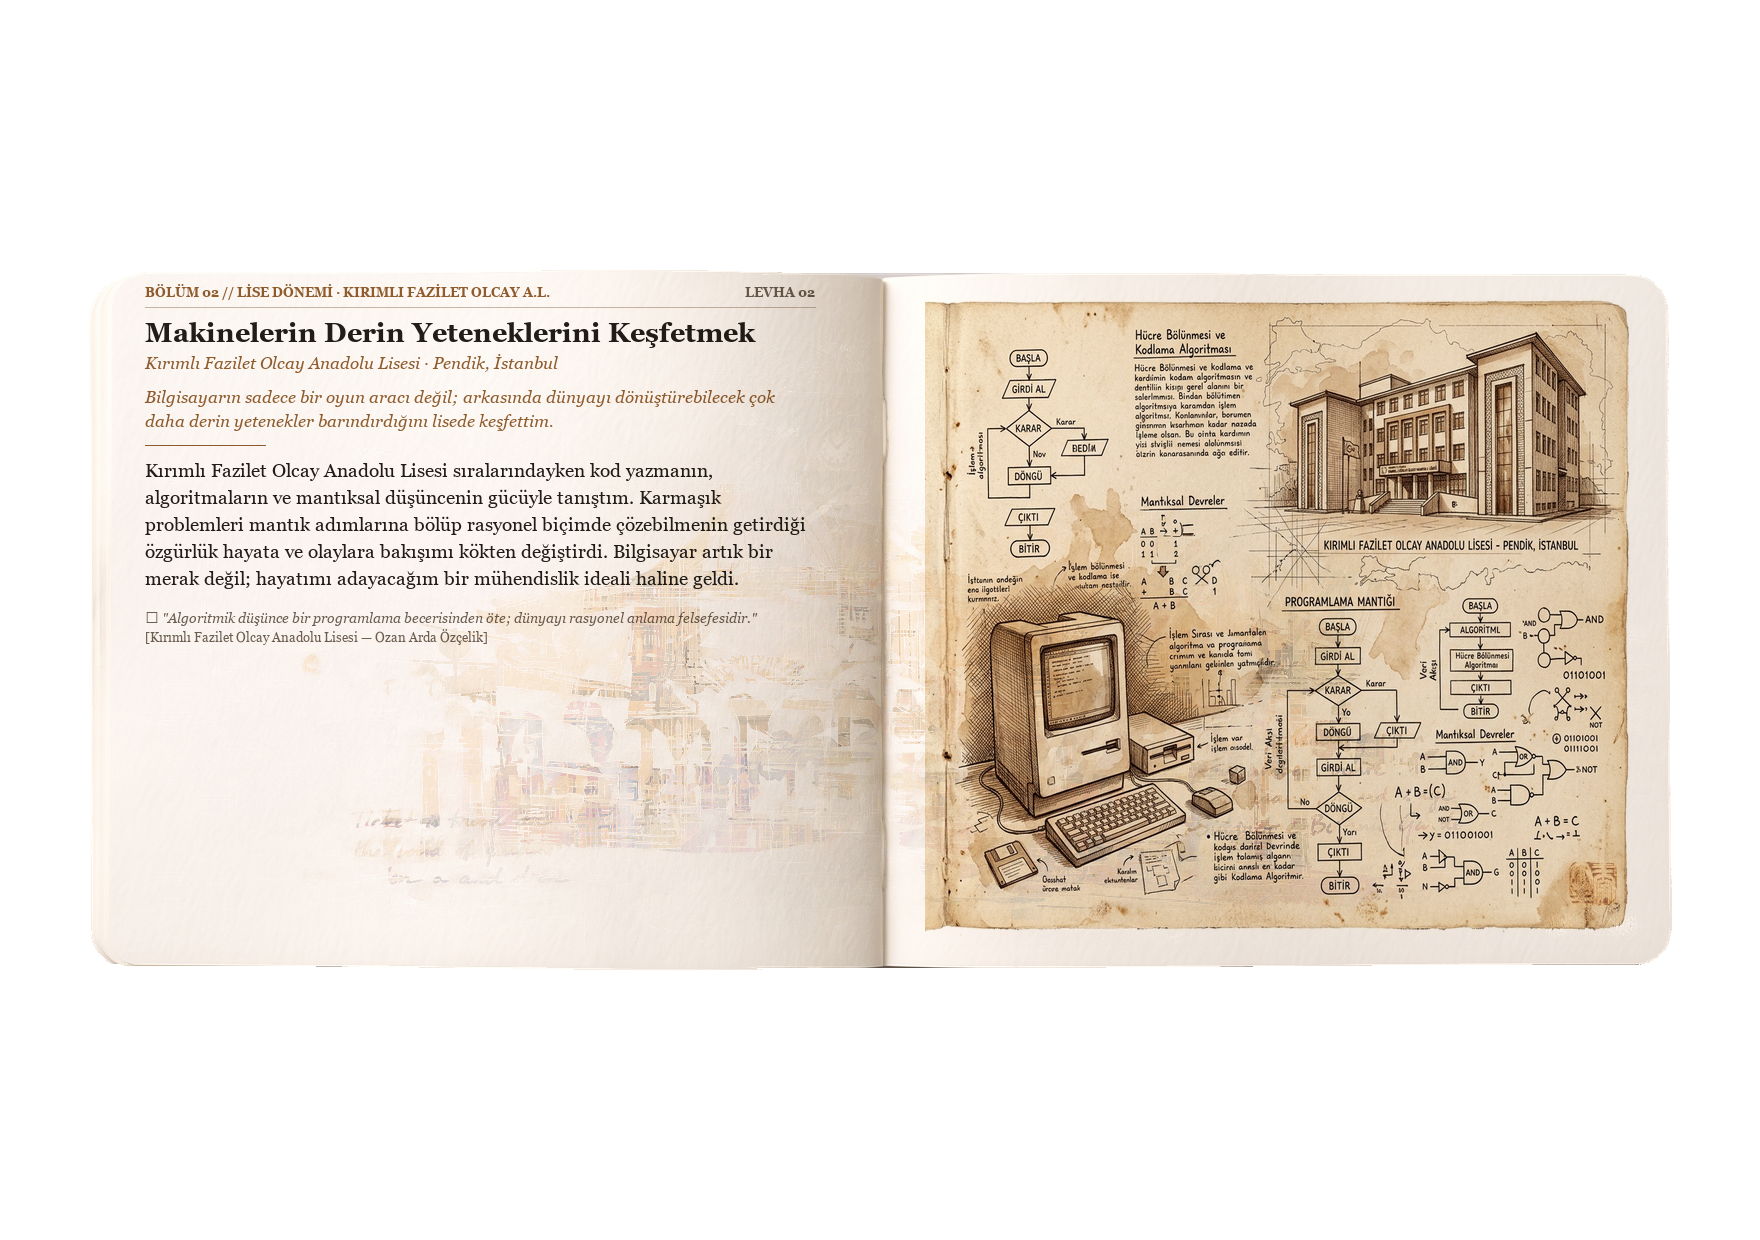
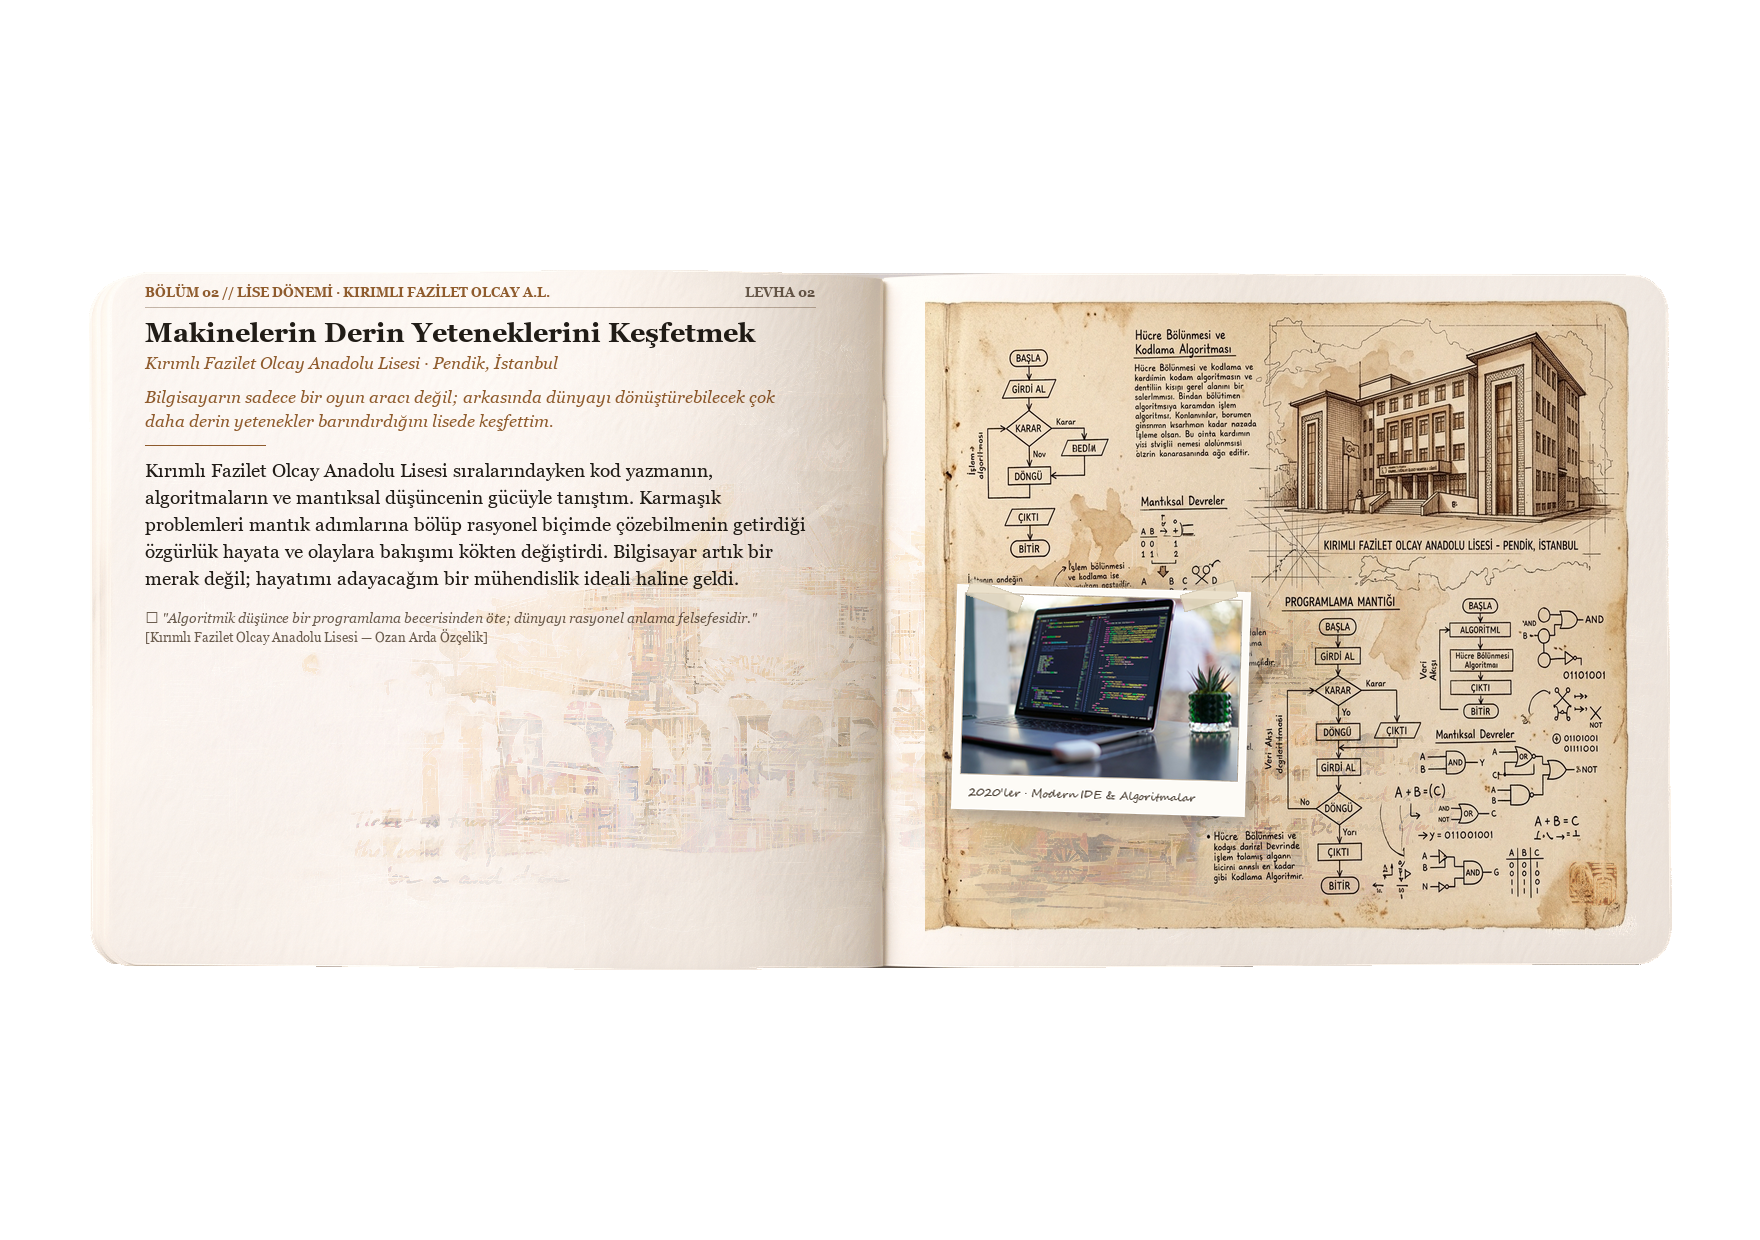
feat: update hero portrait hover text and modernize high school page computer

Changed region(s): [[0.5312, 0.4597, 0.7188, 0.7355]]

diff --git a/index.html b/index.html
@@ -425,8 +425,8 @@
               <span class="hero-cta-arrow">↓</span>
             </button>
             <span class="hero-interactive-hint">
-              <span class="lang-tr">✦ Portre üzerinde mouse'u gezdirerek makine mantığını keşfedin</span>
-              <span class="lang-en">✦ Hover over portrait to reveal robotic machine logic</span>
+              <span class="lang-tr">✦ Portre üzerinde mouse'u gezdirerek geleceği keşfedin</span>
+              <span class="lang-en">✦ Hover over portrait to discover the future</span>
             </span>
           </div>
         </div>

diff --git a/scratch/build_spread_02_modern.py b/scratch/build_spread_02_modern.py
@@ -1,0 +1,161 @@
+import os
+import cv2
+import numpy as np
+from PIL import Image, ImageDraw, ImageFont, ImageFilter
+
+SPREAD_BASE = r'scratch/clean_paper_spread.png'
+PLATE_ORIG = r'scratch/test_poisson_clean.jpg'
+OUT_FINAL = r'public/landing-pages/meng-to-sketchbook/gardens-by-the-bay.png'
+
+spread = Image.open(SPREAD_BASE).convert('RGBA')
+
+# Typography
+font_kicker = ImageFont.truetype(r'C:\Windows\Fonts\georgiab.ttf', 13)
+font_title = ImageFont.truetype(r'C:\Windows\Fonts\georgiab.ttf', 27)
+font_sub = ImageFont.truetype(r'C:\Windows\Fonts\georgiai.ttf', 17)
+font_italic = ImageFont.truetype(r'C:\Windows\Fonts\georgiai.ttf', 17)
+font_body = ImageFont.truetype(r'C:\Windows\Fonts\georgia.ttf', 19)
+font_note = ImageFont.truetype(r'C:\Windows\Fonts\georgiai.ttf', 14)
+font_signature = ImageFont.truetype(r'C:\Windows\Fonts\georgia.ttf', 13)
+
+INK_DEEP = (34, 30, 25, 255)
+INK_FAINT = (110, 98, 85, 255)
+EARTH = (145, 95, 48, 255)
+RULE_COLOR = (175, 160, 145, 180)
+
+# ==================== LEFT PAGE: TEXT CONTENT ====================
+text_canvas = Image.new('RGBA', spread.size, (0, 0, 0, 0))
+draw = ImageDraw.Draw(text_canvas)
+
+LX = 145
+LY = 285
+MAX_W = 670
+
+# 1. Kicker & Plate Number
+draw.text((LX, LY), 'BÖLÜM 02 // LİSE DÖNEMİ · KIRIMLI FAZİLET OLCAY A.L.', font=font_kicker, fill=EARTH)
+draw.text((LX + MAX_W - 70, LY), 'LEVHA 02', font=font_kicker, fill=INK_FAINT)
+draw.line([(LX, LY + 22), (LX + MAX_W, LY + 22)], fill=RULE_COLOR, width=1)
+
+# 2. Title & Subtitle
+draw.text((LX, LY + 32), 'Makinelerin Derin Yeteneklerini Keşfetmek', font=font_title, fill=INK_DEEP)
+draw.text((LX, LY + 68), 'Kırımlı Fazilet Olcay Anadolu Lisesi · Pendik, İstanbul', font=font_sub, fill=EARTH)
+
+def wrap_text(text, font, max_width, d):
+    words = text.split(' ')
+    lines = []
+    cur = words[0]
+    for w in words[1:]:
+        test = cur + ' ' + w
+        bbox = d.textbbox((0, 0), test, font=font)
+        if bbox[2] - bbox[0] <= max_width:
+            cur = test
+        else:
+            lines.append(cur)
+            cur = w
+    lines.append(cur)
+    return lines
+
+lead_text = 'Bilgisayarın sadece bir oyun aracı değil; arkasında dünyayı dönüştürebilecek çok daha derin yetenekler barındırdığını lisede keşfettim.'
+curr_y = LY + 102
+for line in wrap_text(lead_text, font_italic, MAX_W, draw):
+    draw.text((LX, curr_y), line, font=font_italic, fill=EARTH)
+    curr_y += 24
+
+curr_y += 10
+draw.line([(LX, curr_y), (LX + 120, curr_y)], fill=EARTH, width=1)
+curr_y += 14
+
+body_text = 'Kırımlı Fazilet Olcay Anadolu Lisesi sıralarındayken kod yazmanın, algoritmaların ve mantıksal düşüncenin gücüyle tanıştım. Karmaşık problemleri mantık adımlarına bölüp rasyonel biçimde çözebilmenin getirdiği özgürlük hayata ve olaylara bakışımı kökten değiştirdi. Bilgisayar artık bir merak değil; hayatımı adayacağım bir mühendislik ideali haline geldi.'
+for line in wrap_text(body_text, font_body, MAX_W, draw):
+    draw.text((LX, curr_y), line, font=font_body, fill=INK_DEEP)
+    curr_y += 27
+
+curr_y += 16
+note_text = '✦ "Algoritmik düşünce bir programlama becerisinden öte; dünyayı rasyonel anlama felsefesidir."'
+draw.text((LX, curr_y), note_text, font=font_note, fill=INK_FAINT)
+curr_y += 20
+
+signature_text = '[Kırımlı Fazilet Olcay Anadolu Lisesi — Ozan Arda Özçelik]'
+draw.text((LX, curr_y), signature_text, font=font_signature, fill=INK_FAINT)
+
+# Multiply blend text onto spread paper
+spread_arr = np.array(spread).astype(float)
+t_arr = np.array(text_canvas).astype(float)
+alpha = t_arr[:, :, 3] / 255.0
+
+for c in range(3):
+    spread_arr[:, :, c] = np.clip(
+        spread_arr[:, :, c] * (1.0 - alpha) + (spread_arr[:, :, c] * t_arr[:, :, c] / 255.0) * alpha,
+        0, 255
+    )
+
+# Multiply blend the background sketch plate (school building & flowcharts)
+plate_orig = Image.open(PLATE_ORIG).convert('RGBA')
+im_resized = plate_orig.resize((720, 660), Image.Resampling.LANCZOS)
+plate_arr = np.array(im_resized).astype(float)
+
+# Right page bounds on spread: X: 925 to 1645, Y: 285 to 945
+rx1, ry1 = 925, 285
+rx2, ry2 = rx1 + 720, ry1 + 660
+
+for c in range(3):
+    spread_arr[ry1:ry2, rx1:rx2, c] = np.clip(
+        spread_arr[ry1:ry2, rx1:rx2, c] * (plate_arr[:, :, c] / 255.0),
+        0, 255
+    )
+
+spread = Image.fromarray(spread_arr.astype(np.uint8), 'RGBA')
+
+# ==================== RIGHT PAGE: 2020s MODERN WORKSTATION POLAROID ====================
+scale_x = 720 / 1200 # 0.60
+scale_y = 660 / 896  # ~0.7366
+
+desk_photo = Image.open('scratch/modern_desk_3.jpg').convert('RGB')
+dw, dh = desk_photo.size
+desk_crop = desk_photo.crop((int(dw * 0.05), int(dh * 0.02), int(dw * 0.85), int(dh * 0.95)))
+
+card_w = int(490 * scale_x) # 294
+border_side = 9
+photo_w = card_w - border_side * 2
+aspect = desk_crop.height / desk_crop.width
+photo_h = int(photo_w * aspect)
+
+card_h = photo_h + border_side + 36
+card = Image.new('RGBA', (card_w, card_h), (253, 251, 246, 255))
+card.paste(desk_crop.resize((photo_w, photo_h), Image.Resampling.LANCZOS), (border_side, border_side))
+
+cd = ImageDraw.Draw(card)
+cd.rectangle([border_side - 1, border_side - 1, border_side + photo_w, border_side + photo_h], outline=(200, 190, 175, 220), width=1)
+
+font_caption = ImageFont.truetype(r'C:\Windows\Fonts\segoesc.ttf', 11)
+cd.text((border_side + 8, border_side + photo_h + 10), "2020'ler · Modern IDE & Algoritmalar", font=font_caption, fill=(50, 40, 30, 240))
+
+# Drop shadow
+pad = 20
+card_canvas = Image.new('RGBA', (card_w + pad*2, card_h + pad*2), (0, 0, 0, 0))
+shadow = Image.new('RGBA', (card_w, card_h), (30, 22, 15, 125))
+card_canvas.paste(shadow, (pad + 3, pad + 4))
+card_canvas = card_canvas.filter(ImageFilter.GaussianBlur(8))
+card_canvas.paste(card, (pad, pad), card)
+
+rotated = card_canvas.rotate(-1.6, expand=True, resample=Image.Resampling.BICUBIC)
+
+# Exact position covering the old macintosh:
+card_px = rx1 + int(42 * scale_x) - pad
+card_py = ry1 + int(405 * scale_y) - pad
+
+spread.paste(rotated, (card_px, card_py), rotated)
+
+# Washi tape strips
+def paste_tape(img, x, y, w, h, angle):
+    tape = Image.new('RGBA', (w, h), (225, 210, 180, 205))
+    td = ImageDraw.Draw(tape)
+    td.rectangle([0, 0, w-1, h-1], outline=(185, 170, 140, 190), width=1)
+    rot_tape = tape.rotate(angle, expand=True, resample=Image.Resampling.BICUBIC)
+    img.paste(rot_tape, (x, y), rot_tape)
+
+paste_tape(spread, card_px + pad + 15, card_py + pad - 6, 56, 18, -20)
+paste_tape(spread, card_px + pad + card_w - 65, card_py + pad - 4, 56, 18, 16)
+
+spread.save(OUT_FINAL)
+print(f'SUCCESS! Spread 02 (gardens-by-the-bay.png) saved to {OUT_FINAL} ({os.path.getsize(OUT_FINAL)} bytes)')

diff --git a/scratch/build_all_spreads_v2.py b/scratch/build_all_spreads_v2.py
@@ -158,8 +158,8 @@ def wrap_text(text, font, max_width, draw):
 
 for s in spreads_data:
     dest_file = s['file']
-    if dest_file == 'marina-bay-sands.png':
-        # Managed with custom high-fidelity retro photo pipeline in scratch/build_spread_01_retro.py
+    if dest_file in ['marina-bay-sands.png', 'gardens-by-the-bay.png']:
+        # Managed with custom high-fidelity pipelines in scratch/build_spread_01_retro.py & build_spread_02_modern.py
         continue
     illus_file = s['illus']
     dest_path = os.path.join(out_dir, dest_file)
